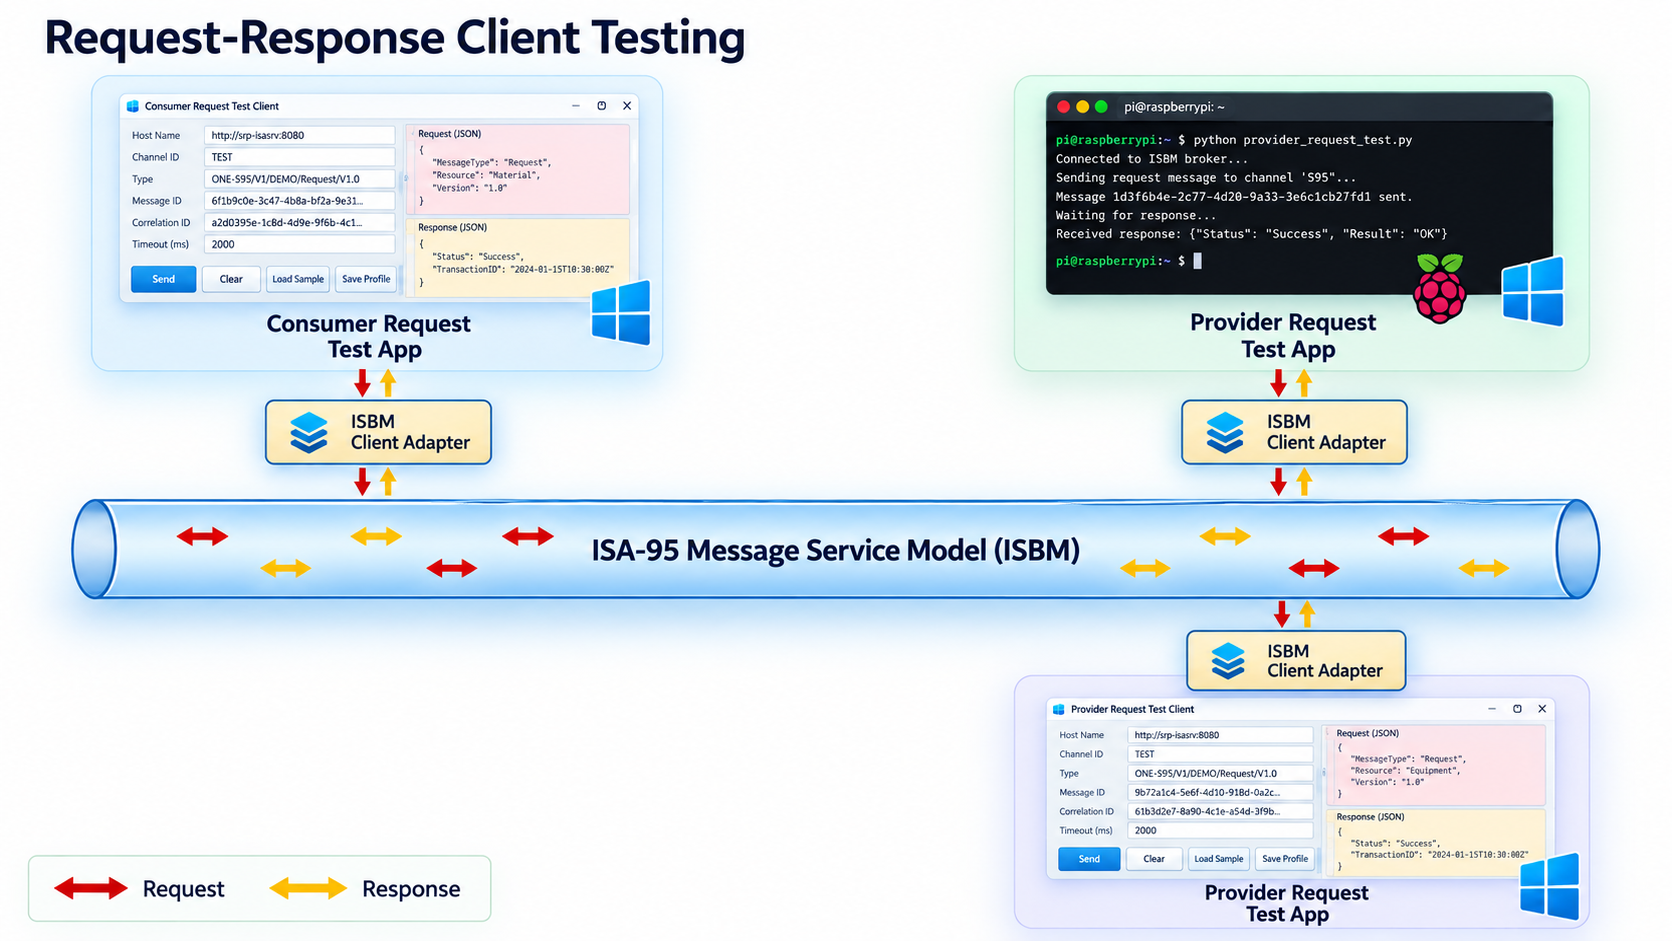
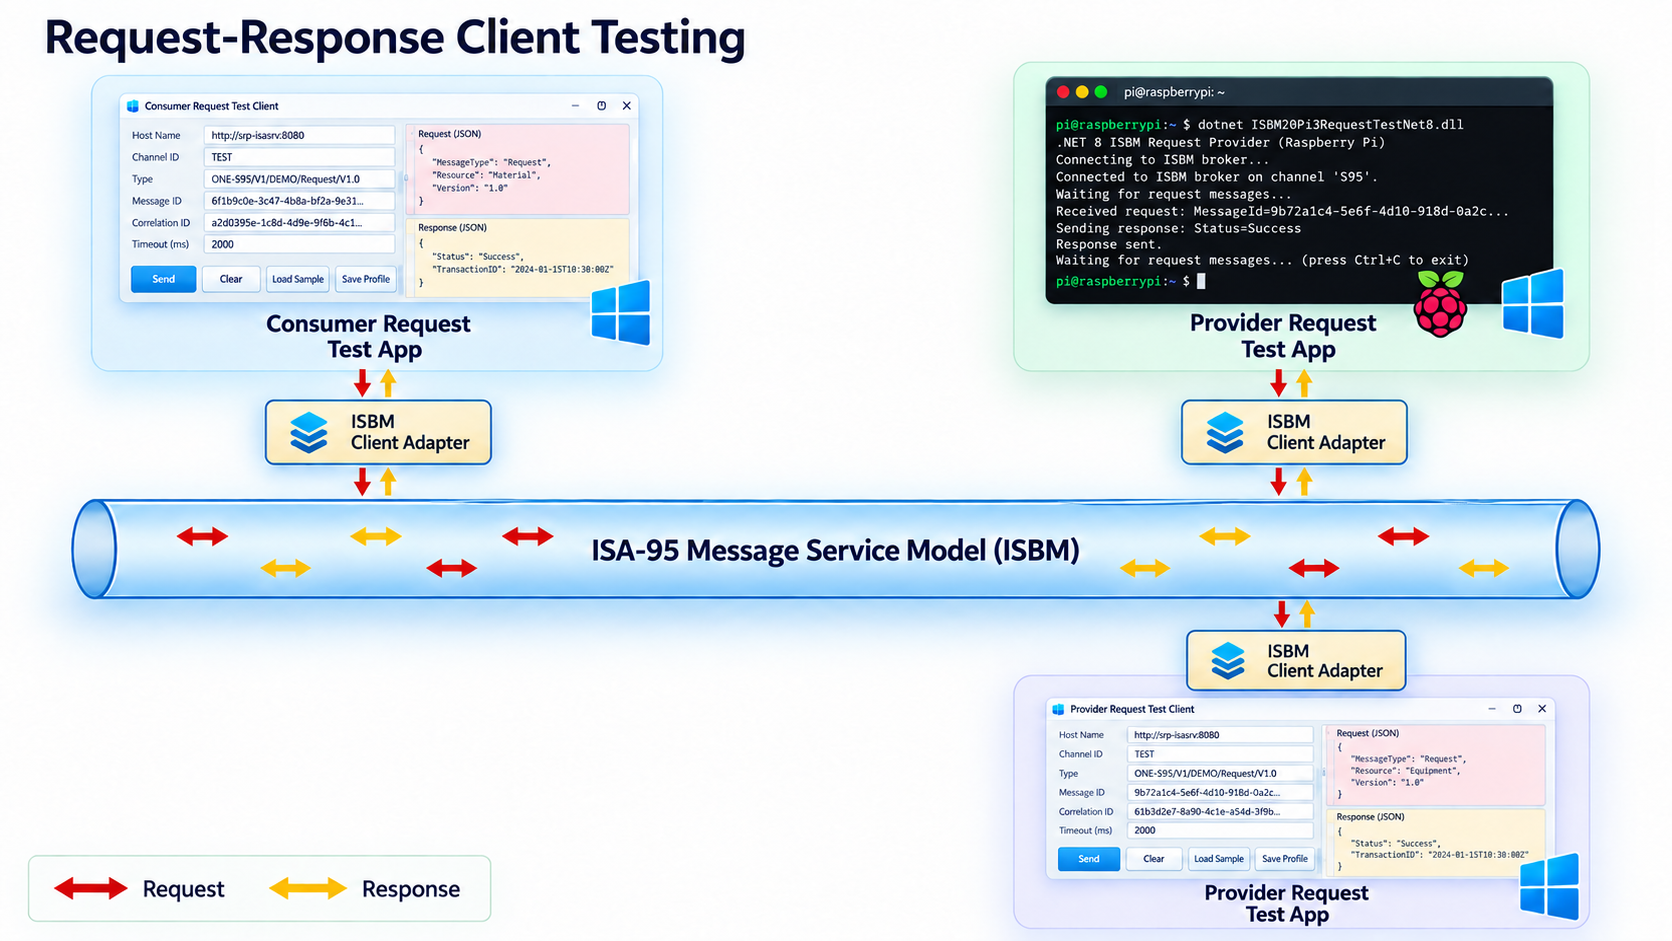
Update request-response testing diagram

diff --git a/README.md b/README.md
@@ -201,6 +201,10 @@ The flow diagrams above show protocol and message sequence. The diagram below sh
 
 ![Publication-Subscription Client Testing](Documents/Images/Publication_Subscription_Client_Testing.png)
 
+### Request-Response Client Testing
+
+![Request-Response Client Testing](Documents/Images/Request_Response_Client_Testing.png)
+
 ### Use Cases
 
 #### 1. Example of using Publication-Subscription model:  [Smart Agriculture Monitoring System](Documents/Use_Cases/Smart-Agriculture-Monitoring-System.md) 
